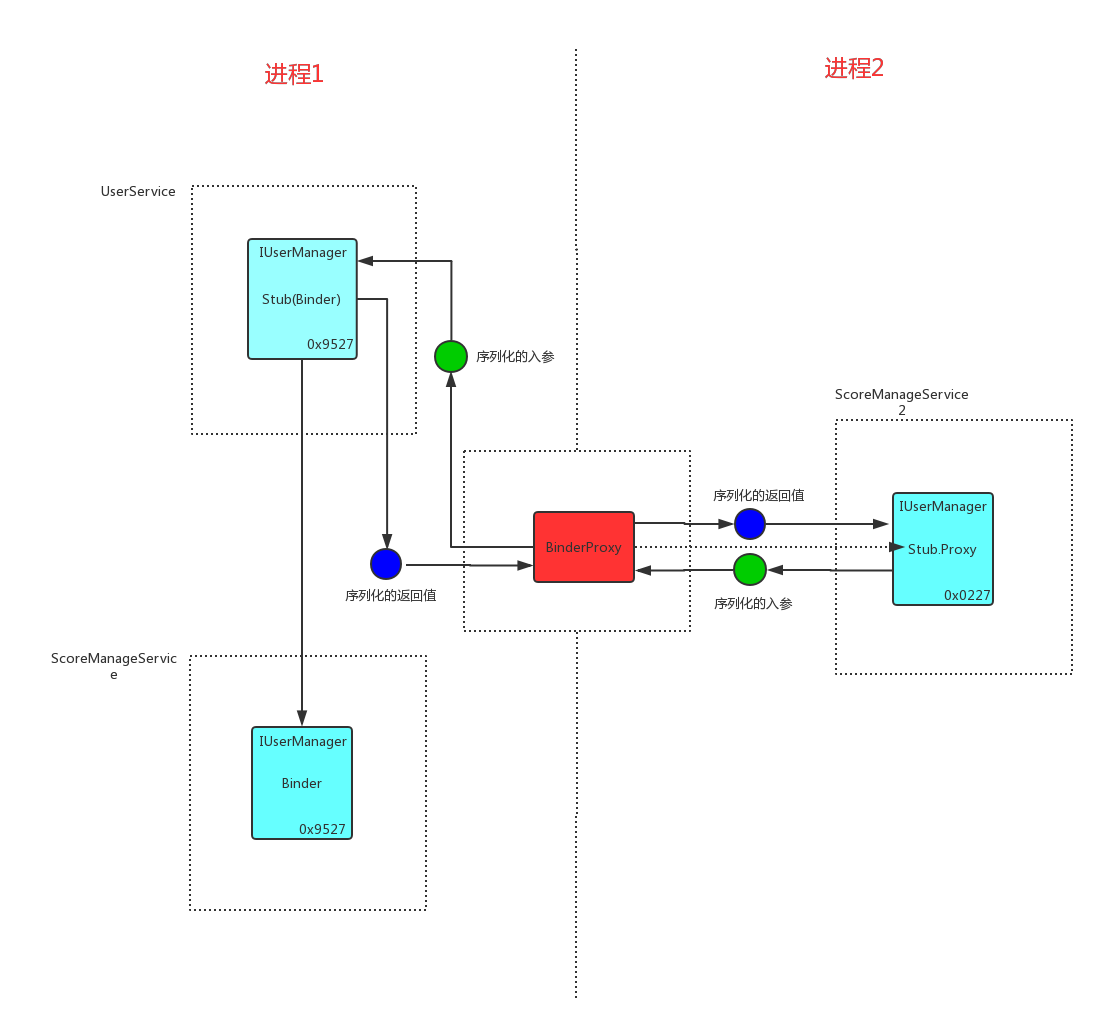
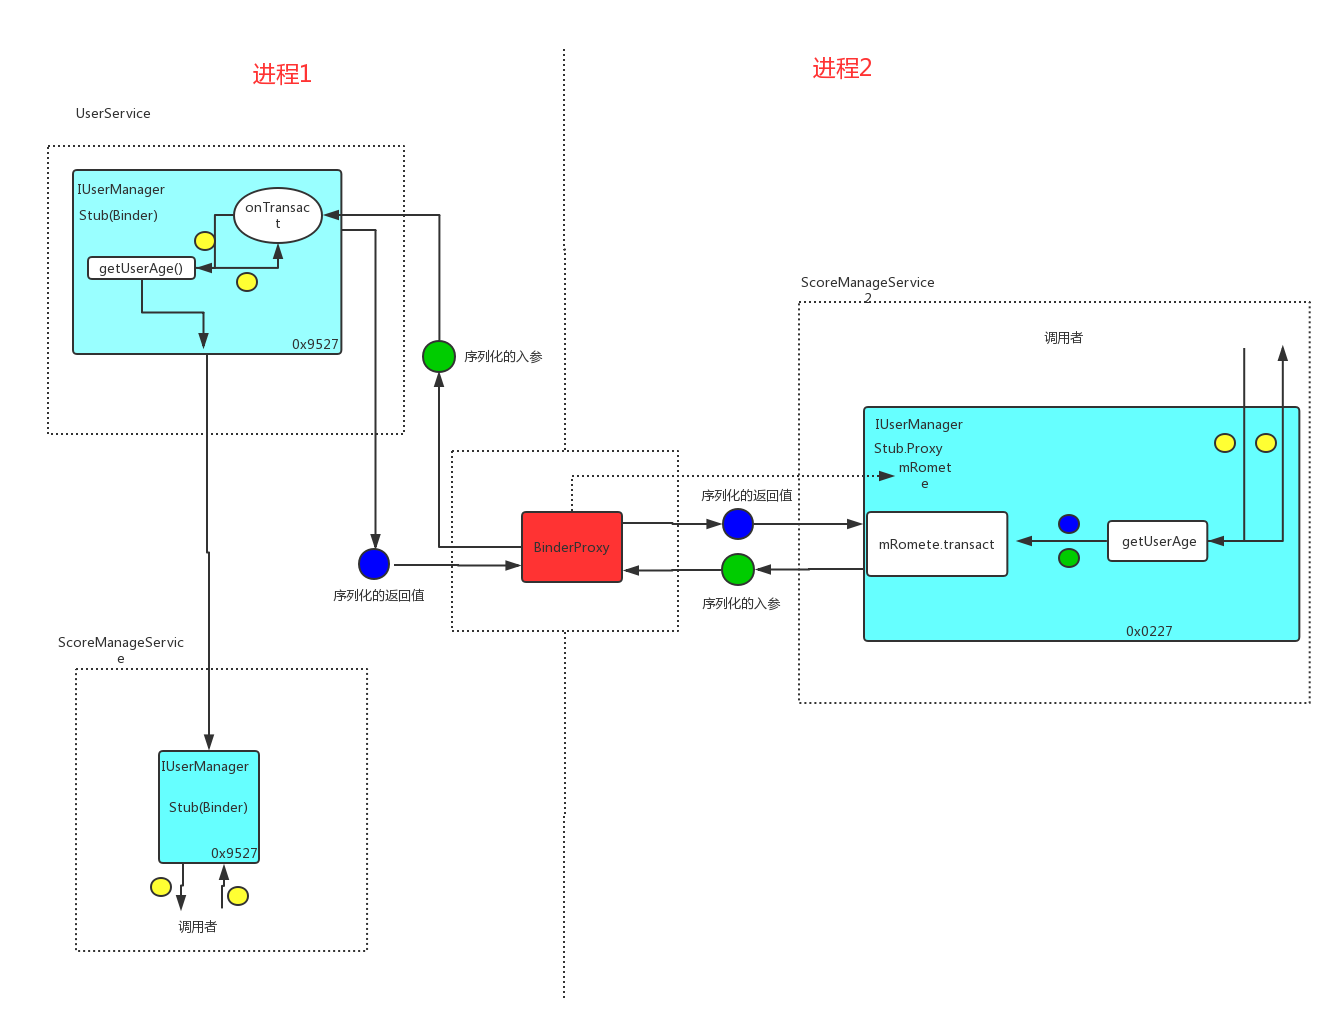
chore:更新binder机制

diff --git a/零散但很重要/我所理解的Binder机制.md b/零散但很重要/我所理解的Binder机制.md
@@ -1,13 +1,11 @@
 
->讲`Binder`的好的文章非常多比如:
+讲`Android Binder机制`的文章非常多,这篇文章主要是理一下我对`Binder`的理解。本文不是一篇介绍`Binder`的文章,也不是一篇探讨`Binder`实现的文章。 
+本文会以`AndroidStudio`根据`aidl接口`自动产生的`java文件`来看`Binder`,进而来理解`Binder机制`。
 
-- [Android 进阶9：进程通信之 AIDL 解析](https://blog.csdn.net/u011240877/article/details/72825706)
-- [Binder学习指南](http://weishu.me/2016/01/12/binder-index-for-newer/)
-
-那我为什么还要写这篇文章呢？主要还是为了理一下自己对于`Binder`的理解。本文不是一篇介绍Binder的文章(可以看上面两篇文章), 本文会以`aidl`为例来看`Binder`,来理解`aidl`中涉及的每一个东西的含义。
-所以说如果你本身对`Binder`不是很理解的话，这篇文章估计我也不能很好的表达我的理解给你。
+>其实Android的Binder机制类似于:[RPC(远程过程调用)](https://blog.csdn.net/liucan9035/article/details/73662426)。如果你理解它，相信`Binder`机制就更容易理解了。
 
 首先我们使用`AndroidStudio`来定义一个`aidl`接口:
+
 ```
 interface IUserManager {
     int getUserAge(in String userName);
@@ -53,9 +51,7 @@ public interface IInterface
 }
 ```
 
-即他是所有`Binder`都要实现的接口, 为什么呢 ？:
-
-举一个我们都熟悉的场景:
+即他是所有`Binder`都要实现的接口, 为什么呢？举一个我们都熟悉的场景 :
 
 比如`ApplicationThread`，`ActivityManagerService`(运行在服务端进程)就可以通过它来调用我们客户端的方法。我们会把这些方法抽象为一个接口（`IApplicationThread`），这个接口可以理解为我们告诉服务端，你可以对客户端执行哪些操作。
 
@@ -130,7 +126,7 @@ static abstract class Stub extends android.os.Binder implements com.susion.demo.
     }
 ```
 
-即一个`Stub`(`Binder`)在构造的时候，就标识好了自己的具体功能`IUserManager`。来看一下`attachInterface(this, DESCRIPTOR)`做了什么:
+即一个`Stub`(`Binder`)在构造的时候，就标识好了自己的具体功能`IInterface(IUserManager)`。来看一下`attachInterface(this, DESCRIPTOR)`做了什么:
 
 ```
 //Binder.java
@@ -140,7 +136,7 @@ public void attachInterface(@Nullable IInterface owner, @Nullable String descrip
 }
 ```
 
-即，Binder在内部会用`IInterface`来保存自己的功能。和这个功能更对应的唯一描述`descriptor`。
+即，Binder在内部会用`IInterface`来保存自己的功能。和这个功能更对应的唯一描述`descriptor`,方便在通信的时候寻找。
 
 #### asBinder()
 
@@ -185,7 +181,7 @@ public IInterface queryLocalInterface(String descriptor) {
 
 ## IUserManager.Stub.Proxy
 
-它又是`Stub`的静态内部类,如果调用者和`Binder`不在同一个进程的话，调用者拿到的实际是它:
+它是`Stub`的静态内部类,如果调用者和`Binder`不在同一个进程的话，调用者拿到的实际是它:
 
 ```
     private static class Proxy implements com.didi.virtualapk.demo.aidl.IUserManager {
@@ -249,7 +245,7 @@ public IInterface queryLocalInterface(String descriptor) {
 
 `_data`是序列化后的入参、`_reply`是序列化后的返回值。可以看到`_data`所携带的参数是需要序列化的，`_reply`所带的内容是被序列化的，所以读取要反序列化。
 
-所以`IUserManager.Stub.Proxy`类的作用就是对传给`mRemote(BinderProxy)`的参数做序列化，对`mRemote(BinderProxy)`返回值做反序列化。
+所以`IUserManager.Stub.Proxy`类的作用就是在跨进程调用时对传给`mRemote(BinderProxy)`的参数做序列化，对`mRemote(BinderProxy)`返回值做反序列化。*参数的接受者和返回者是`BinderProxy`*
 
 具体调用`Binder`的能力是使用`BinderProxy`的`transact()`方法,*它是跨进程通信的核心* , 我们来看一下这个方法:
 
@@ -273,9 +269,11 @@ public boolean onTransact(int code, android.os.Parcel data, android.os.Parcel re
             reply.writeString(DESCRIPTOR);
             return true;
         }
-        case TRANSACTION_userCount: {
+        case TRANSACTION_getUserAge: {
             data.enforceInterface(DESCRIPTOR);
-            int _result = this.userCount();
+            java.lang.String _arg0;
+            _arg0 = data.readString();
+            int _result = this.getUserAge(_arg0);
             reply.writeNoException();
             reply.writeInt(_result);
             return true;
@@ -290,6 +288,12 @@ public boolean onTransact(int code, android.os.Parcel data, android.os.Parcel re
 最后我们用一张图来总结`Binder进程通信机制` : 
 
 ![Binder机制](picture/Binder机制.png)
+
+参考:
+
+> [Android 进阶9：进程通信之 AIDL 解析](https://blog.csdn.net/u011240877/article/details/72825706)
+
+> [Binder学习指南](http://weishu.me/2016/01/12/binder-index-for-newer/)
 
 
 
